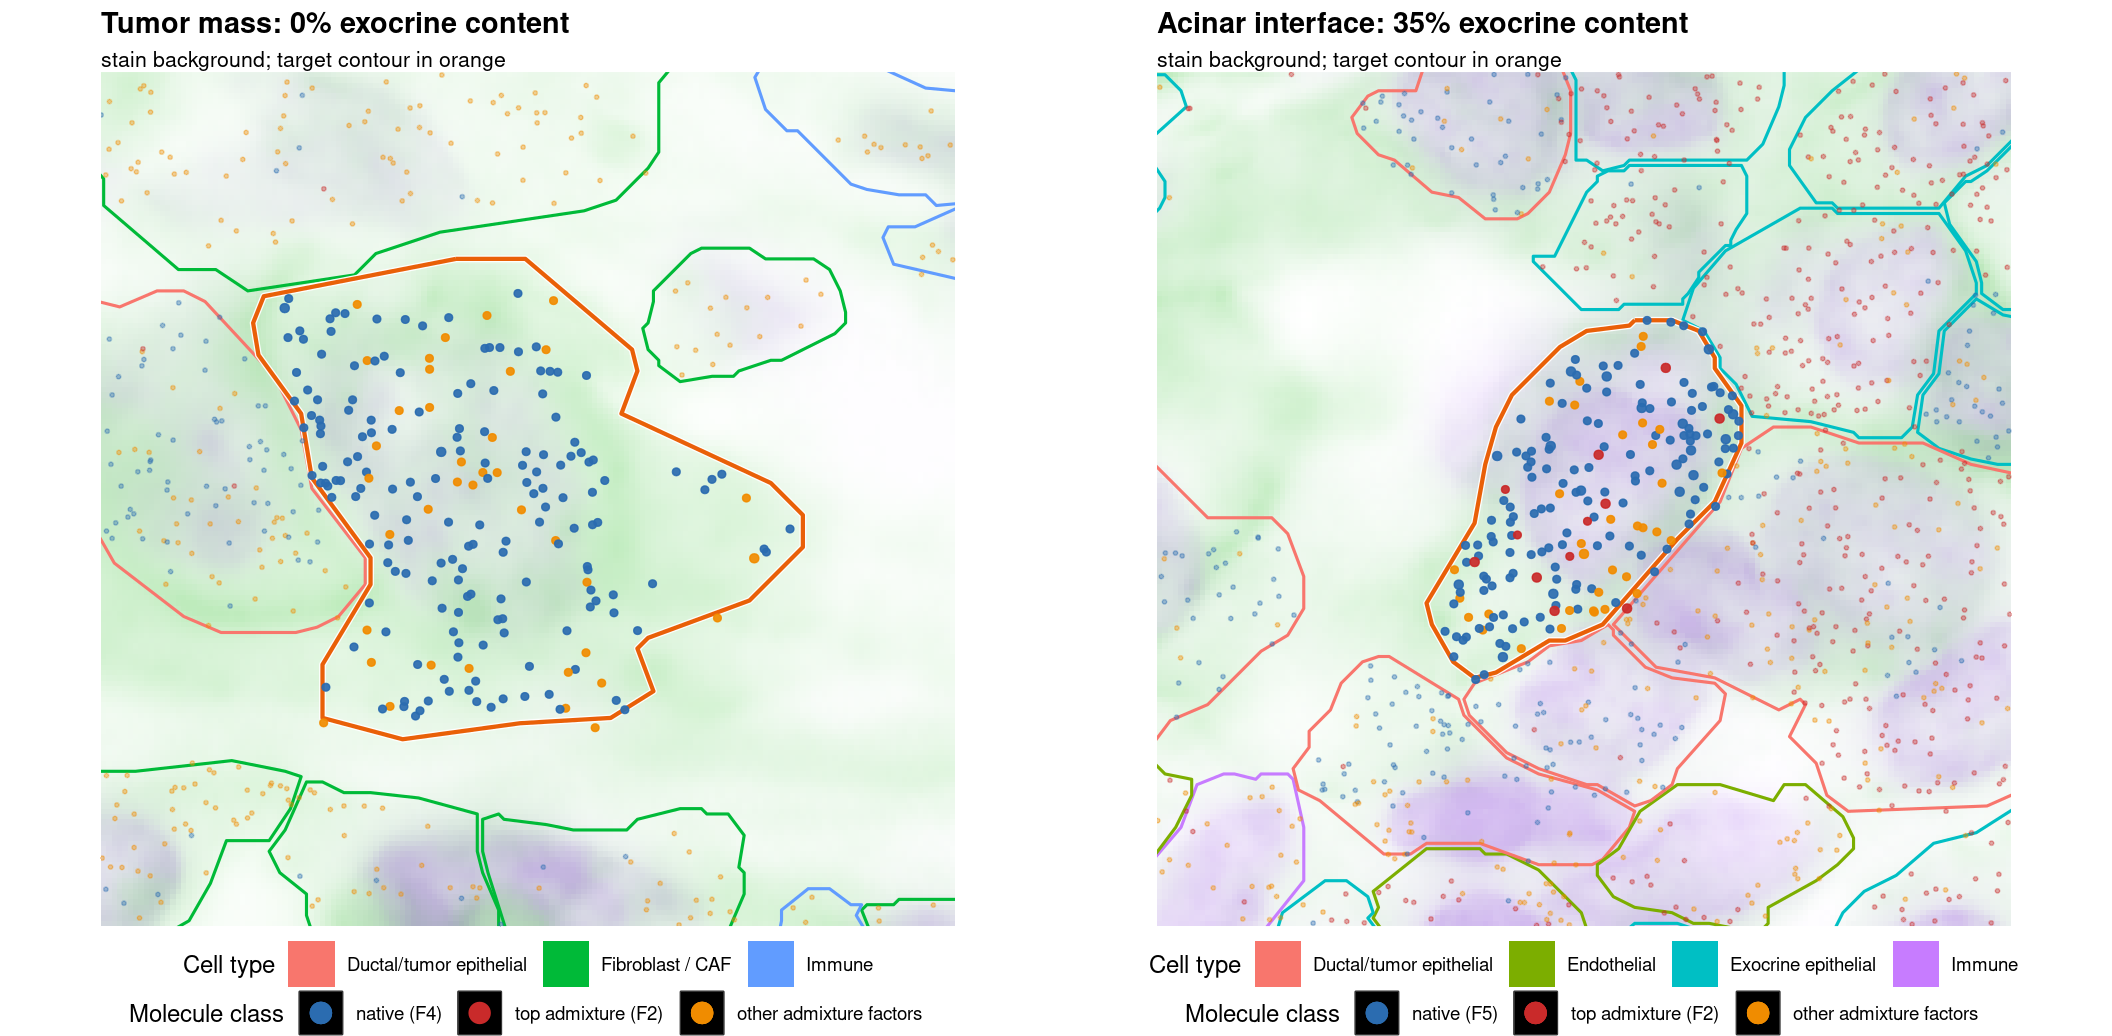
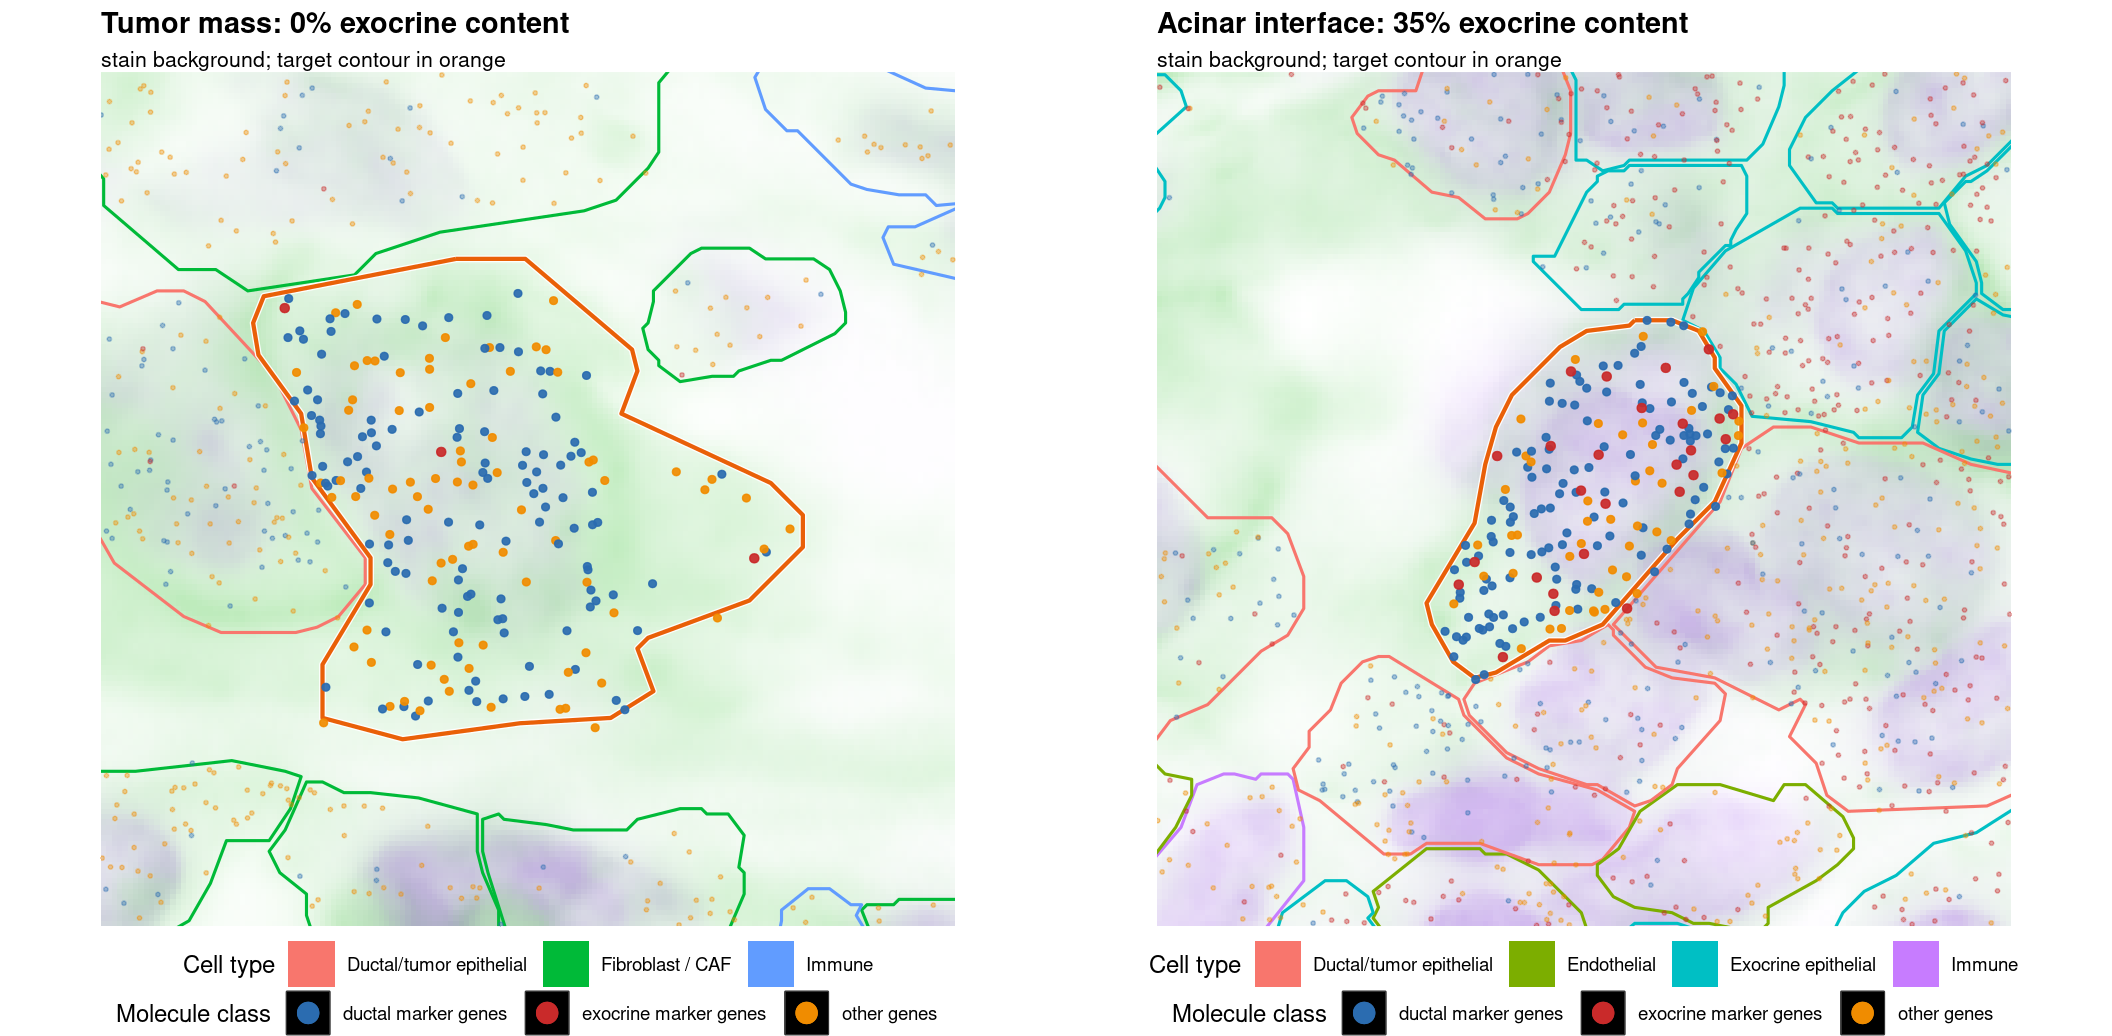
Color example-cell molecules by gene origin

diff --git a/examples/xenium_pancreas_membrane_377_full/pancreas_generative.md b/examples/xenium_pancreas_membrane_377_full/pancreas_generative.md
@@ -254,12 +254,19 @@ ggplot(stack, aes(which, share, fill = part)) +
 <img src="pancreas_generative_files/figure-gfm/anatomy-cells-1.png" alt="" width="624" style="display: block; margin: auto;" />
 
 Individual cells can be inspected with the package’s standard
-molecule-level rendering — stain background, cell boundaries, cell-type
-contours, and molecules colored by their factor role, with the exocrine
-marker genes emphasized. Both cells below have a strong ductal identity;
-the difference is their surroundings. In the tumor mass the cell’s
-content is its own; at the acinar interface, the same kind of cell is
-filled with molecules of the exocrine factor:
+molecule-level rendering — stain background, cell boundaries, and
+cell-type contours. Here the molecules are colored by gene origin: blue
+for the ductal marker genes (the cell’s own identity), red for the
+exocrine marker genes (the audit’s admixture panel for this pair —
+material that should not be in a ductal cell), orange for the panel’s
+remaining genes. Both cells below have a strong ductal identity; the
+difference is their surroundings. In the tumor mass the red class is
+nearly absent; at the acinar interface, the same kind of cell holds a
+clearly visible population of exocrine-marker molecules — the same
+material that dominates the neighboring exocrine cells. The red class
+understates the fitted contamination fraction: the marker panel covers
+only the exocrine-specific genes, while the fitted 35% also counts
+transferred molecules of genes the two types share:
 
 ``` r
 profiles <- cellAdmixCore:::.celladmix_audit_profiles(before,
@@ -272,35 +279,38 @@ duct_own_count <- Matrix::colSums(before[ductal_genes, elig])
 rich <- elig[duct_own_count >= stats::quantile(duct_own_count, 0.6)]
 cid_clean <- rich[which.min(cc[rich] + (expo[rich] > 0))]
 cid_cont <- rich[which.max(cc[rich])]
-# the exocrine-aligned NMF factor colors the admixed molecules
-fr <- nmf_fit$cell_factors()
-fcols <- grep("^factor_[0-9]+_fraction$", names(fr), value = TRUE)
-exo_cells <- cell_annotation[as.character(fr$cell_id)] == "Exocrine epithelial"
-fmeans <- colMeans(fr[which(exo_cells), fcols], na.rm = TRUE)
-exo_factor <- as.integer(sub("^factor_([0-9]+)_fraction$", "\\1",
-  names(which.max(fmeans))))
 mk_pool <- audit$markers("Exocrine epithelial",
   "Ductal/tumor epithelial")$pool
-example_of <- function(cid) data.frame(target_cell = cid,
-  target_cell_type = "Ductal/tumor epithelial",
-  top_admix_factor = unname(exo_factor), stringsAsFactors = FALSE)
+gene_classes <- c("ductal marker genes", "exocrine marker genes",
+  "other genes")
+example_panel <- function(cid, title) {
+  prep <- celladmix_prepare_cell_example(nmf_fit,
+    data.frame(target_cell = cid,
+      target_cell_type = "Ductal/tumor epithelial",
+      top_admix_factor = NA, stringsAsFactors = FALSE),
+    markers = mk_pool)
+  g <- prep$molecules$gene
+  prep$molecules$role <- factor(ifelse(g %in% mk_pool, gene_classes[[2]],
+    ifelse(g %in% ductal_genes, gene_classes[[1]], gene_classes[[3]])),
+    levels = gene_classes)
+  prep$role_levels <- gene_classes
+  celladmix_plot_cell_example(prep, title = title)
+}
 cowplot::plot_grid(
-  nmf_fit$plot_cell_example(example_of(cid_clean), markers = mk_pool,
-    title = sprintf("Tumor mass: %.0f%% exocrine content",
-      100 * cc[[cid_clean]])),
-  nmf_fit$plot_cell_example(example_of(cid_cont), markers = mk_pool,
-    title = sprintf("Acinar interface: %.0f%% exocrine content",
-      100 * cc[[cid_cont]])),
+  example_panel(cid_clean, sprintf("Tumor mass: %.0f%% exocrine content",
+    100 * cc[[cid_clean]])),
+  example_panel(cid_cont, sprintf("Acinar interface: %.0f%% exocrine content",
+    100 * cc[[cid_cont]])),
   ncol = 2)
 ```
 
 <img src="pancreas_generative_files/figure-gfm/anatomy-molecules-1.png" alt="" width="1056" style="display: block; margin: auto;" />
 
-The model’s mechanics are visibleThe model’s mechanics are visible in
-how the fitted contamination fraction relates to the exposure-derived
-dose: each cell’s own expression can move its estimate around the dose,
-but only within a bounded factor — removal stays anchored to the
-demonstrated spatial signal:
+The model’s mechanics are visible in how the fitted contamination
+fraction relates to the exposure-derived dose: each cell’s own
+expression can move its estimate around the dose, but only within a
+bounded factor — removal stays anchored to the demonstrated spatial
+signal:
 
 ``` r
 ggplot(comp, aes(dose, contamination,
